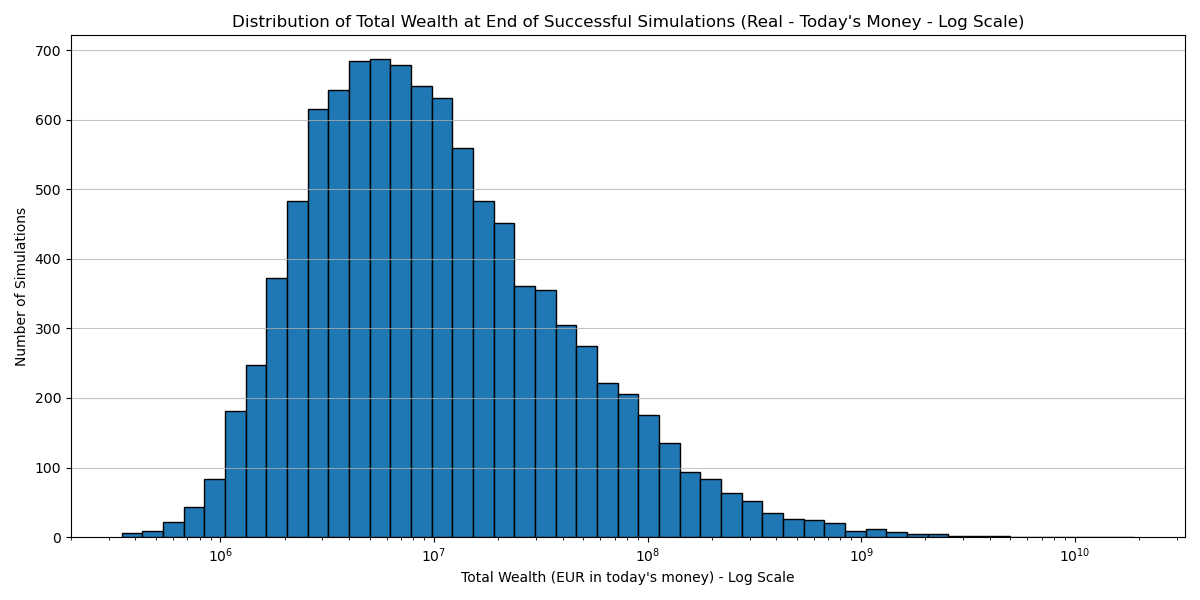
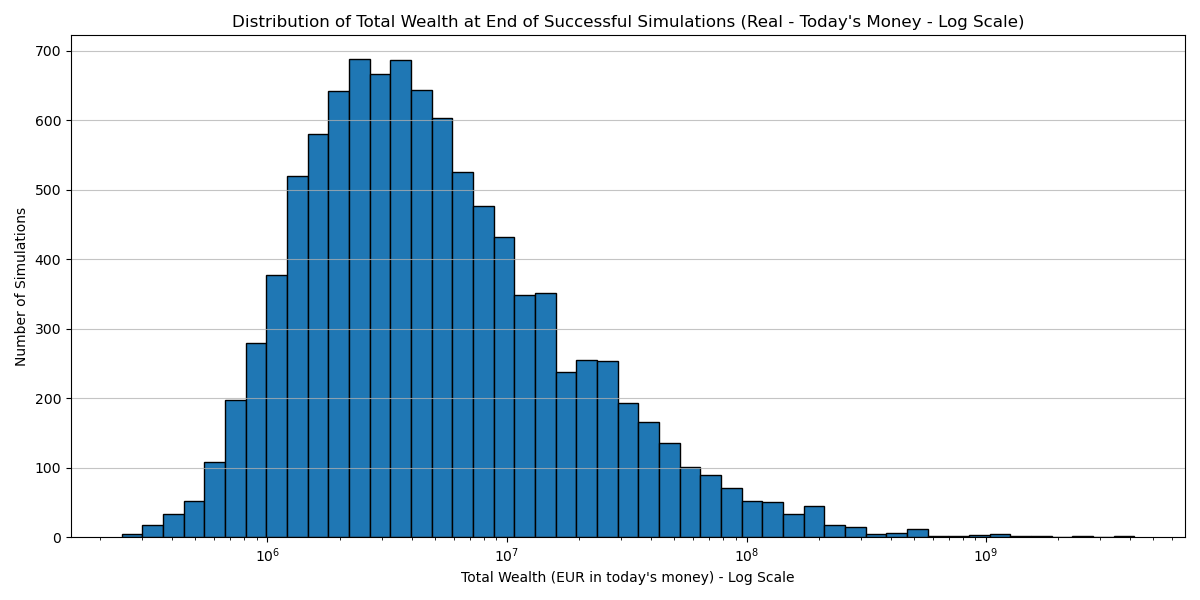
We have black swans.

diff --git a/simulation.py b/simulation.py
@@ -27,7 +27,8 @@ def run_single_fire_simulation(
     real_bank_upper_bound,
     C_real_monthly_initial,
     H0_real_cost,
-    TER_ANNUAL_PERCENTAGE
+    TER_ANNUAL_PERCENTAGE,
+    shock_events,
 ):
     """
     Runs a single Monte Carlo simulation of a financial independence retirement plan.
@@ -78,6 +79,7 @@ def run_single_fire_simulation(
         real_bank_upper_bound (float): Maximum desired real bank balance.
         C_real_monthly_initial (float): Initial monthly contribution in real terms.
         TER_ANNUAL_PERCENTAGE (float): Annual Total Expense Ratio as a percentage of relevant investments. # <--- NEW DOCSTRING
+        shock_events:
 
     Returns:
         tuple: A tuple containing simulation results:
@@ -133,6 +135,27 @@ def run_single_fire_simulation(
     annual_real_estate_returns_seq = np.random.lognormal(
         mu_log_real_estate, sigma_log_real_estate, T_ret_years
     ) - 1
+
+    for shock in shock_events:
+        shock_year = shock['year']
+        shock_asset = shock['asset']
+        shock_magnitude = shock['magnitude']
+
+        # Ensure the shock year is within the simulation duration
+        if 0 <= shock_year < T_ret_years:
+            if shock_asset == 'Stocks':
+                annual_stocks_returns_seq[shock_year] = shock_magnitude
+            elif shock_asset == 'Bonds':
+                annual_bonds_returns_seq[shock_year] = shock_magnitude
+            elif shock_asset == 'STR': # Assuming 'STR' for short-term rate
+                annual_str_returns_seq[shock_year] = shock_magnitude
+            elif shock_asset == 'Fun': # Assuming 'Fun' for fun money
+                annual_fun_returns_seq[shock_year] = shock_magnitude
+            elif shock_asset == 'Real Estate':
+                annual_real_estate_returns_seq[shock_year] = shock_magnitude
+            # else:
+            #     Optional: Add a warning if an unknown asset is specified in config.toml
+            #     print(f"Warning: Unknown asset '{shock_asset}' in shock definition for year {shock_year}.")
 
     # Pre-calculate nominal planned contributions and pension start year based on this trial's inflation
     nominal_c_planned_amounts = []

diff --git a/main.py b/main.py
@@ -94,6 +94,10 @@ def main():
     mu_pi = eco_assumptions['mu_pi']
     sigma_pi = eco_assumptions['sigma_pi']
 
+    # Load historical shock events (new)
+    shocks_config = config_data.get('shocks', {})
+    shock_events = shocks_config.get('events', [])
+
     port_allocs = config_data['portfolio_allocations']
     REBALANCING_YEAR_IDX = port_allocs['REBALANCING_YEAR_IDX']
     W_P1_STOCKS = port_allocs['W_P1_STOCKS']
@@ -233,7 +237,8 @@ def main():
             REAL_BANK_UPPER_BOUND_EUROS,
             C_real_monthly_initial,
             H0_real_cost,
-            TER_ANNUAL_PERCENTAGE
+            TER_ANNUAL_PERCENTAGE,
+            shock_events,
         )
         simulation_results.append(result)
         
